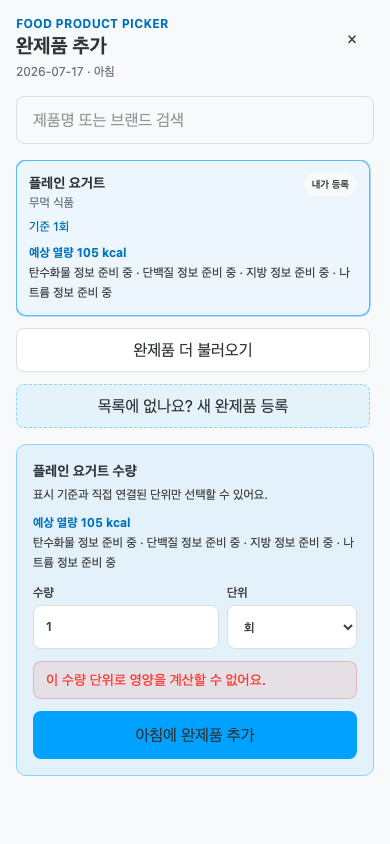
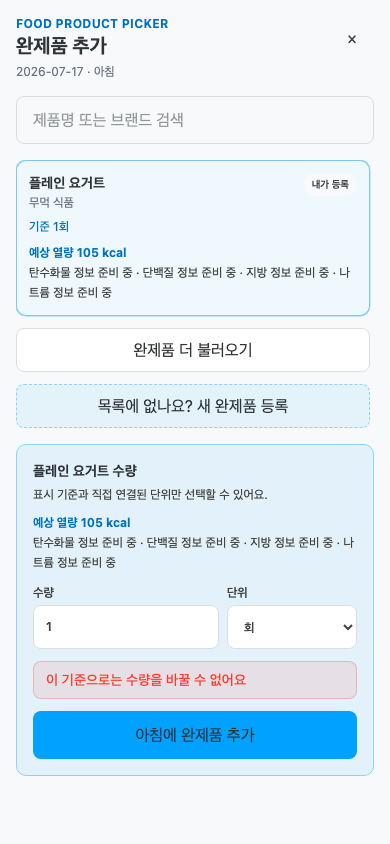
fix(planner): keep product recovery actions in view
Stage 5 found that the desktop create shell measured itself from the viewport rather than its inline start position, hiding the sticky submit action. The same review also found that basis mismatch responses leaked API wording instead of the official screen copy. The repair constrains only the desktop shell height and maps the existing error code at the presentation boundary.

Constraint: Preserve the official API code, status, fields, and raw server message contract.

Rejected: Change the route error message | would alter the API surface when only the UI contract was wrong.

Confidence: high

Scope-risk: narrow

Directive: Keep mobile create geometry unchanged and map basis mismatch by code in every product-entry UI.

Tested: Vitest 55/55; prepared-food slice Playwright 26 pass/2 expected skip; exact evidence matrix; typecheck; lint; git diff --check

Not-tested: physical device and screen reader

Omx-Workpack: prepared-food-planner-entry

Changed region(s): [[0.1538, 0.8009, 0.6769, 0.8318], [0.9231, 0.1848, 0.9538, 0.3697], [0.0308, 0.1848, 0.0615, 0.2156]]

diff --git a/tests/e2e/slice-prepared-food-planner-entry.spec.ts b/tests/e2e/slice-prepared-food-planner-entry.spec.ts
@@ -126,7 +126,7 @@ async function installRoutes(
   page: Page,
   options: {
     catalogVersion?: "v2";
-    mutationError?: "basis" | "unauthorized" | "createUnauthorized" | "deleteUnauthorized" | "patchUnauthorized";
+    mutationError?: "basis" | "unauthorized" | "createUnauthorized" | "deleteUnauthorized" | "patchUnauthorized" | "patchBasis";
   } = {},
 ) {
   let productEntry: ProductEntry | null = createMealProductEntry();
@@ -135,6 +135,7 @@ async function installRoutes(
   let createUnauthorizedOnce = options.mutationError === "createUnauthorized";
   let deleteUnauthorizedOnce = options.mutationError === "deleteUnauthorized";
   let patchUnauthorizedOnce = options.mutationError === "patchUnauthorized";
+  let patchMismatchOnce = options.mutationError === "patchBasis";
 
   await page.route("**/api/v1/users/me**", async (route) => {
     const pathname = new URL(route.request().url()).pathname;
@@ -278,6 +279,22 @@ async function installRoutes(
             success: false,
             data: null,
             error: { code: "UNAUTHORIZED", message: "로그인이 필요해요.", fields: [] },
+          },
+        });
+        return;
+      }
+      if (patchMismatchOnce) {
+        patchMismatchOnce = false;
+        await route.fulfill({
+          status: 422,
+          json: {
+            success: false,
+            data: null,
+            error: {
+              code: "NUTRITION_BASIS_MISMATCH",
+              message: "이 수량 단위로 영양을 계산할 수 없어요.",
+              fields: [{ field: "quantity.unit", reason: "basis_mismatch" }],
+            },
           },
         });
         return;
@@ -523,6 +540,19 @@ test.describe("prepared-food-planner-entry", () => {
     await expect(productCard).not.toContainText("999");
   });
 
+  test("PATCH basis mismatch는 공식 안내를 보여 주고 수량 편집 단계에 머문다", async ({ page }) => {
+    await installRoutes(page, { mutationError: "patchBasis" });
+    await page.goto(MEAL_PATH);
+
+    const productCard = page.getByTestId("product-planner-entry-entry-yogurt").filter({ visible: true });
+    await productCard.getByRole("button", { name: "수량 변경" }).click();
+    const editDialog = page.getByRole("dialog", { name: "완제품 수량 변경" });
+    await editDialog.getByRole("button", { name: "수량 변경" }).click();
+
+    await expect(editDialog.getByText("이 기준으로는 수량을 바꿀 수 없어요", { exact: true })).toBeVisible();
+    await expect(editDialog).toBeVisible();
+  });
+
   test("opaque cursor를 이어 붙이고 basis mismatch에서 선택·수량 단계에 머문다", async ({ page }) => {
     await installRoutes(page, { mutationError: "basis" });
     await page.goto(`${MENU_PATH}&source=product`);
@@ -534,7 +564,7 @@ test.describe("prepared-food-planner-entry", () => {
 
     await page.getByText("플레인 요거트", { exact: true }).filter({ visible: true }).click();
     await page.getByRole("button", { name: "아침에 완제품 추가" }).click();
-    await expect(page.getByText("이 수량 단위로 영양을 계산할 수 없어요.", { exact: true })).toBeVisible();
+    await expect(page.getByText("이 기준으로는 수량을 바꿀 수 없어요", { exact: true })).toBeVisible();
     await expect(page.getByTestId("food-product-quantity-step")).toBeVisible();
   });
 
@@ -740,6 +770,23 @@ test.describe("prepared-food-planner-entry", () => {
     expect(actionBox!.y + actionBox!.height).toBeLessThanOrEqual(page.viewportSize()!.height + 1);
   });
 
+  test("desktop FOOD_PRODUCT_CREATE의 등록 CTA가 1280×900 첫 화면 안에 보인다", async ({ browser }, testInfo) => {
+    test.skip(testInfo.project.name !== "mobile-chrome", "exact desktop geometry runs once");
+    const context = await browser.newContext({ deviceScaleFactor: 1, viewport: { width: 1280, height: 900 } });
+    const desktopPage = await context.newPage();
+    await setAuthenticated(desktopPage);
+    await installRoutes(desktopPage);
+    await desktopPage.goto(`${MENU_PATH}&source=product`);
+    await desktopPage.getByRole("button", { name: "목록에 없나요? 새 완제품 등록" }).click();
+
+    const actions = desktopPage.getByTestId("food-product-create-actions");
+    await expect(actions).toBeVisible();
+    const actionBox = await actions.boundingBox();
+    expect(actionBox).not.toBeNull();
+    expect(actionBox!.y + actionBox!.height).toBeLessThanOrEqual(900);
+    await context.close();
+  });
+
   test("product edit/delete dialogs trap focus, inert background, lock scroll, and return focus", async ({ page }) => {
     await installRoutes(page);
     await page.goto(MEAL_PATH);
@@ -907,7 +954,7 @@ test.describe("prepared-food-planner-entry", () => {
     await mismatchPage.goto(`${MENU_PATH}&source=product`);
     await mismatchPage.getByText("플레인 요거트", { exact: true }).filter({ visible: true }).click();
     await mismatchPage.getByRole("button", { name: "아침에 완제품 추가" }).click();
-    await expect(mismatchPage.getByText("이 수량 단위로 영양을 계산할 수 없어요.", { exact: true })).toBeVisible();
+    await expect(mismatchPage.getByText("이 기준으로는 수량을 바꿀 수 없어요", { exact: true })).toBeVisible();
     await mismatchPage.screenshot({ path: path.join(EVIDENCE_DIR, "FOOD_PRODUCT_PICKER-basis-mismatch.png"), scale: "css" });
     await mismatchContext.close();
 

diff --git a/tests/planner-meal-screen.test.tsx b/tests/planner-meal-screen.test.tsx
@@ -1003,4 +1003,40 @@ describe("MealScreen", () => {
     expect(decodeURIComponent(login.getAttribute("data-next-path") ?? "")).toContain("productEntryId=entry-auth");
     expect(decodeURIComponent(login.getAttribute("data-next-path") ?? "")).toContain("productAction=edit");
   });
+
+  it("maps PATCH basis mismatch to the official UI copy and keeps the edit dialog open", async () => {
+    readE2EAuthOverride.mockReturnValue(true);
+    const productEntry = {
+      entry_type: "product" as const,
+      id: "entry-mismatch",
+      product_id: "product-1",
+      product_name: "플레인 요거트",
+      product_brand: null,
+      quantity: { amount: 1, unit: "serving" as const },
+      workflow_status: null,
+      product_nutrition_version_id: "version-1",
+      basis_relations: [],
+      nutrition: {
+        basis: { amount: 1, unit: "serving" as const },
+        values: { energy_kcal: { amount: 105, known_amount: null, status: "complete" as const, display_mode: "total" as const } },
+        calculation_status: "complete" as const,
+        calculation_quality: "direct" as const,
+        warnings: [], sources: [],
+      },
+    };
+    fetchMeals.mockResolvedValue({ items: [], product_entries: [productEntry] });
+    updateProductPlannerEntryQuantity.mockRejectedValue(Object.assign(
+      new Error("이 수량 단위로 영양을 계산할 수 없어요."),
+      { status: 422, code: "NUTRITION_BASIS_MISMATCH" },
+    ));
+
+    render(<MealScreen {...DEFAULT_PROPS} />);
+    await userEvent.click(await screen.findByRole("button", { name: "수량 변경" }));
+    const dialog = screen.getByRole("dialog", { name: "완제품 수량 변경" });
+    await userEvent.click(screen.getAllByRole("button", { name: "수량 변경" }).at(-1)!);
+
+    expect(await screen.findByText("이 기준으로는 수량을 바꿀 수 없어요")).toBeTruthy();
+    expect(screen.queryByText("이 수량 단위로 영양을 계산할 수 없어요.")).toBeNull();
+    expect(dialog.isConnected).toBe(true);
+  });
 });

diff --git a/tests/prepared-food-planner-entry-ui.test.tsx b/tests/prepared-food-planner-entry-ui.test.tsx
@@ -392,6 +392,22 @@ describe("FOOD_PRODUCT_PICKER cursor and latest-query behavior", () => {
     await userEvent.click(screen.getByRole("button", { name: "최신 영양정보로 새로고침" }));
     await waitFor(() => expect(screen.getByTestId("food-product-quantity-step").textContent).toContain("예상 열량 120 kcal"));
   });
+
+  it("maps picker basis mismatch to the official UI copy without exposing the API message", async () => {
+    fetchFoodProducts.mockResolvedValue({ items: [createProduct()], next_cursor: null, has_next: false });
+    createProductPlannerEntry.mockRejectedValue(Object.assign(
+      new Error("이 수량 단위로 영양을 계산할 수 없어요."),
+      { status: 422, code: "NUTRITION_BASIS_MISMATCH", fields: [] },
+    ));
+
+    render(<FoodProductPicker columnId="column-1" onClose={() => undefined} onComplete={() => undefined} planDate="2026-07-17" slotName="아침" />);
+    await userEvent.click(await screen.findByRole("button", { name: /플레인 요거트/ }));
+    await userEvent.click(screen.getByRole("button", { name: "아침에 완제품 추가" }));
+
+    expect(await screen.findByText("이 기준으로는 수량을 바꿀 수 없어요")).toBeTruthy();
+    expect(screen.queryByText("이 수량 단위로 영양을 계산할 수 없어요.")).toBeNull();
+    expect(screen.getByTestId("food-product-quantity-step")).toBeTruthy();
+  });
 });
 
 describe("FOOD_PRODUCT_CREATE validation and privacy", () => {

diff --git a/lib/planner/product-planner-entry-presentation.ts b/lib/planner/product-planner-entry-presentation.ts
@@ -19,6 +19,17 @@ export type MealScreenDisplayEntry =
   | { key: string; entry_type: "recipe"; recipe: MealListItemData }
   | { key: string; entry_type: "product"; product: MealProductPlannerEntryData };
 
+const NUTRITION_BASIS_MISMATCH_COPY = "이 기준으로는 수량을 바꿀 수 없어요";
+
+export function formatProductPlannerEntryErrorMessage(error: {
+  code: string;
+  message: string;
+}) {
+  return error.code === "NUTRITION_BASIS_MISMATCH"
+    ? NUTRITION_BASIS_MISMATCH_COPY
+    : error.message;
+}
+
 function uniqueProducts<T extends { id: string }>(entries: T[]) {
   const seen = new Set<string>();
   return entries.filter((entry) => {

diff --git a/components/planner/food-product-picker.tsx b/components/planner/food-product-picker.tsx
@@ -13,6 +13,7 @@ import { createPostAuthNextCookie } from "@/lib/auth/post-auth-next";
 import {
   buildCompatibleFoodProductUnits,
   formatFoodProductExpectedEnergy,
+  formatProductPlannerEntryErrorMessage,
   formatProductUnit,
   getFoodProductCoreNutritionLines,
 } from "@/lib/planner/product-planner-entry-presentation";
@@ -304,7 +305,7 @@ export function FoodProductPicker({
       } else if (caught.code === "NUTRITION_VERSION_CONFLICT") {
         setHasNutritionConflict(true);
       }
-      setEntryError(caught.message);
+      setEntryError(formatProductPlannerEntryErrorMessage(caught));
     } finally {
       setIsSubmitting(false);
     }
@@ -377,7 +378,7 @@ export function FoodProductPicker({
     return (
       <section
         aria-labelledby="food-product-create-title"
-        className="relative mx-auto flex h-[calc(100dvh-2rem)] max-h-[760px] w-full max-w-3xl flex-col overflow-hidden bg-[var(--surface)]"
+        className="relative mx-auto flex h-[calc(100dvh-2rem)] max-h-[760px] w-full max-w-3xl flex-col overflow-hidden bg-[var(--surface)] lg:h-[calc(100dvh-17rem)]"
         data-testid="food-product-create-shell"
         ref={createShellRef}
         onKeyDownCapture={(event) => {

diff --git a/components/planner/meal-screen.tsx b/components/planner/meal-screen.tsx
@@ -56,6 +56,7 @@ import { getSupabaseBrowserClient } from "@/lib/supabase/browser";
 import { hasSupabasePublicEnv } from "@/lib/supabase/env";
 import {
   buildCompatibleFoodProductUnits,
+  formatProductPlannerEntryErrorMessage,
   formatProductUnit,
   mergeMealScreenEntries,
 } from "@/lib/planner/product-planner-entry-presentation";
@@ -1580,7 +1581,7 @@ export function MealScreen({
         return;
       }
       const message = isProductPlannerEntryApiError(caught)
-        ? caught.message
+        ? formatProductPlannerEntryErrorMessage(caught)
         : "완제품 수량을 바꾸지 못했어요.";
       setEditingProduct((current) =>
         current ? { ...current, error: message } : null,